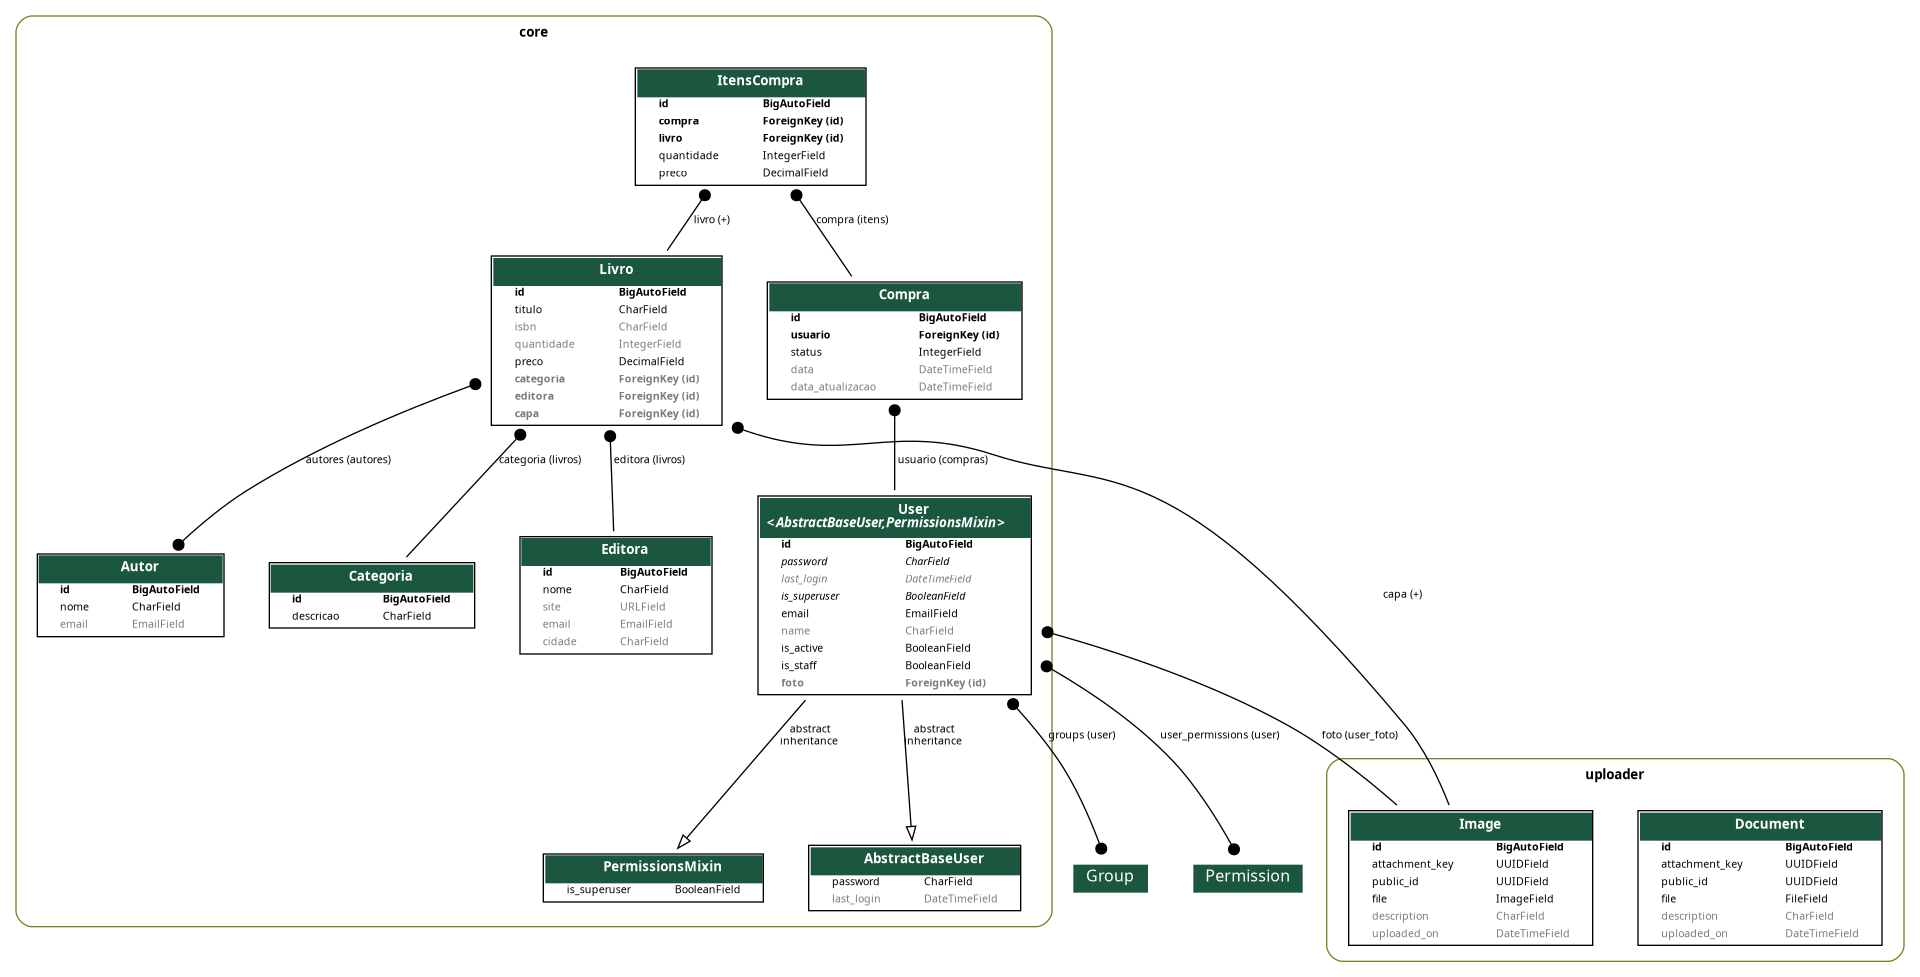
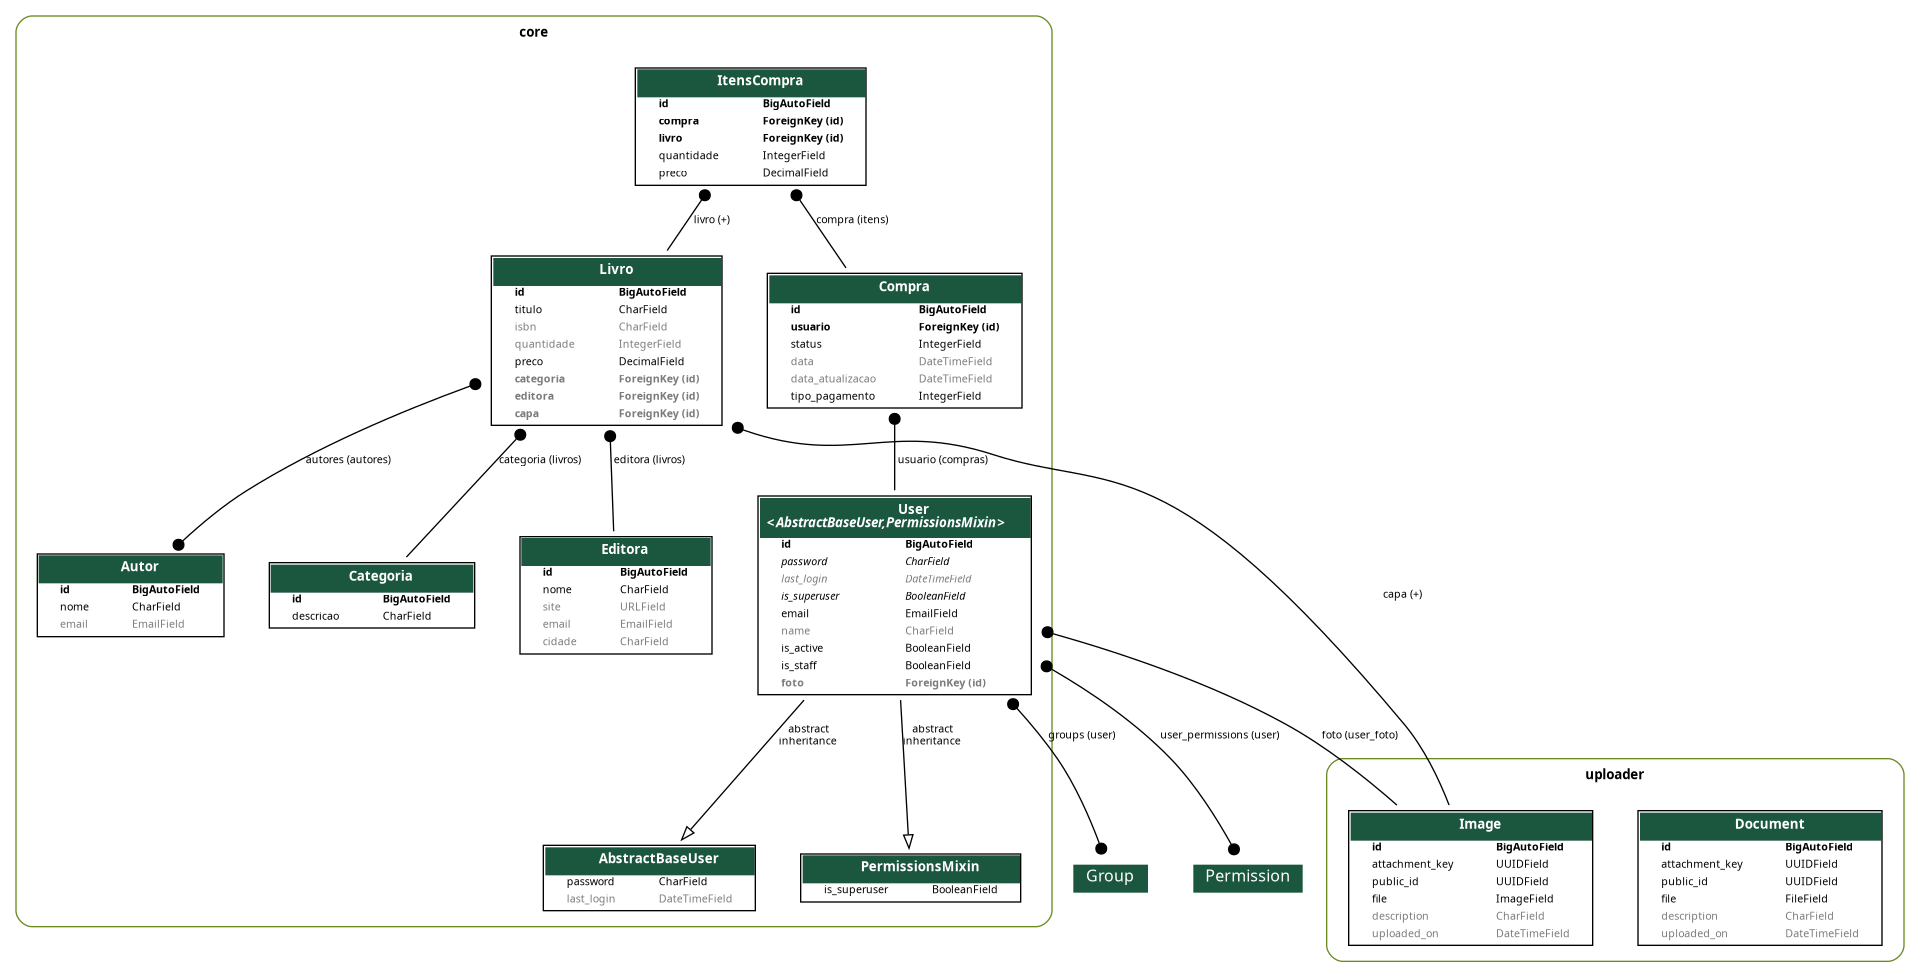
feat: adicionando tipo de pagamento à entidade de Compra

diff --git a/core/models/compra.py b/core/models/compra.py
@@ -5,6 +5,15 @@ from .user import User
 
 
 class Compra(models.Model):
+    class TipoPagamento(models.IntegerChoices):
+        CARTAO_CREDITO = 1, 'Cartão de Crédito'
+        CARTAO_DEBITO = 2, 'Cartão de Débito'
+        PIX = 3, 'PIX'
+        BOLETO = 4, 'Boleto'
+        TRANSFERENCIA_BANCARIA = 5, 'Transferência Bancária'
+        DINHEIRO = 6, 'Dinheiro'
+        OUTRO = 7, 'Outro'
+        CHEQUE = 8, 'Cheque'
     class StatusCompra(models.IntegerChoices):
         CARRINHO = 1, 'Carrinho'
         FINALIZADO = 2, 'Finalizado'
@@ -15,6 +24,10 @@ class Compra(models.Model):
     status = models.IntegerField(choices=StatusCompra.choices, default=StatusCompra.CARRINHO)
     data = models.DateTimeField(auto_now_add=True)
     data_atualizacao = models.DateTimeField(auto_now=True)
+    tipo_pagamento = models.IntegerField(
+        choices=TipoPagamento.choices,
+        default=TipoPagamento.CARTAO_CREDITO
+    )
 
     @property
     def total(self):

diff --git a/core/admin.py b/core/admin.py
@@ -81,13 +81,13 @@ class CompraAdmin(admin.ModelAdmin):
         """Exibe R$ 123,45 em vez de 123.45."""
         return f"R$ {obj.total:.2f}"
 
-    list_display = ('usuario', 'status', 'total_formatado', 'data', 'data_criacao')
+    list_display = ('usuario', 'status', 'total_formatado', 'data', 'data_atualizacao')
     ordering = ('usuario', 'status', 'data')
     search_fields = ('usuario__email', 'status')
-    list_filter = ('status', 'data', 'data_criacao')
+    list_filter = ('status', 'data', 'data_atualizacao')
     list_per_page = 10
     inlines = [ItensCompraInline]
-    readonly_fields = ('data', 'total_formatado', 'data_criacao')
+    readonly_fields = ('data', 'total_formatado', 'data_atualizacao')
 
 @admin.register(Editora)  # noqa: E302
 class EditoraAdmin(admin.ModelAdmin):

diff --git a/core/serializers/compra.py b/core/serializers/compra.py
@@ -89,8 +89,9 @@ class CompraSerializer(ModelSerializer):
     status = CharField(source='get_status_display', read_only=True)
     data = DateTimeField(read_only=True)
     data_atualizacao = DateTimeField(read_only=True)
+    tipo_pagamento = CharField(source='get_tipo_pagamento_display', read_only=True)
     itens = ItensCompraSerializer(many=True, read_only=True)
 
     class Meta:
         model = Compra
-        fields = ('id', 'usuario', 'status', 'itens', 'total', 'data', 'data_atualizacao')
+        fields = ('id', 'usuario', 'status', 'itens', 'total', 'data', 'data_atualizacao', 'tipo_pagamento')

diff --git a/core/migrations/0020_compra_tipo_pagamento.py b/core/migrations/0020_compra_tipo_pagamento.py
@@ -1,0 +1,18 @@
+# Generated by Django 5.2.13 on 2026-09-15 12:03
+
+from django.db import migrations, models
+
+
+class Migration(migrations.Migration):
+
+    dependencies = [
+        ('core', '0019_compra_data_atualizacao'),
+    ]
+
+    operations = [
+        migrations.AddField(
+            model_name='compra',
+            name='tipo_pagamento',
+            field=models.IntegerField(choices=[(1, 'Cartão de Crédito'), (2, 'Cartão de Débito'), (3, 'PIX'), (4, 'Boleto'), (5, 'Transferência Bancária'), (6, 'Dinheiro'), (7, 'Outro'), (8, 'Cheque')], default=1),
+        ),
+    ]
